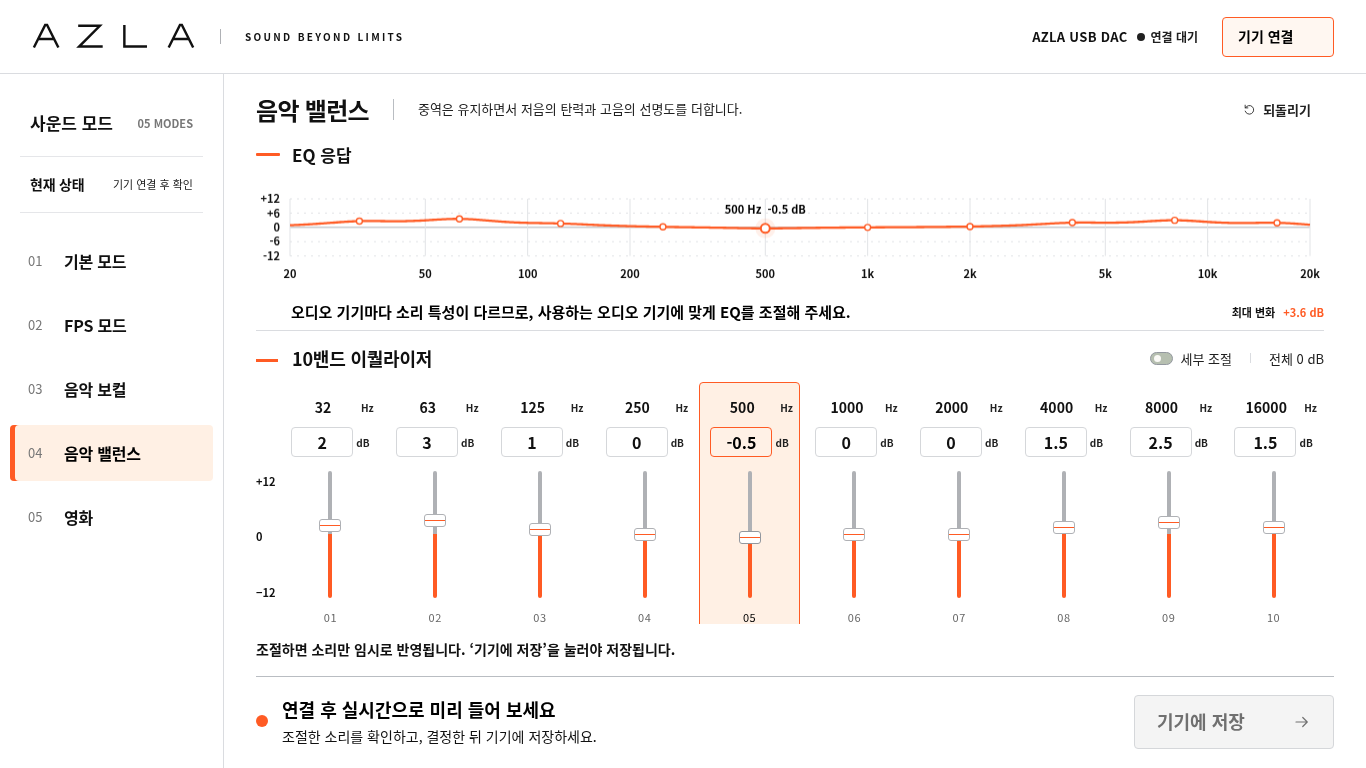
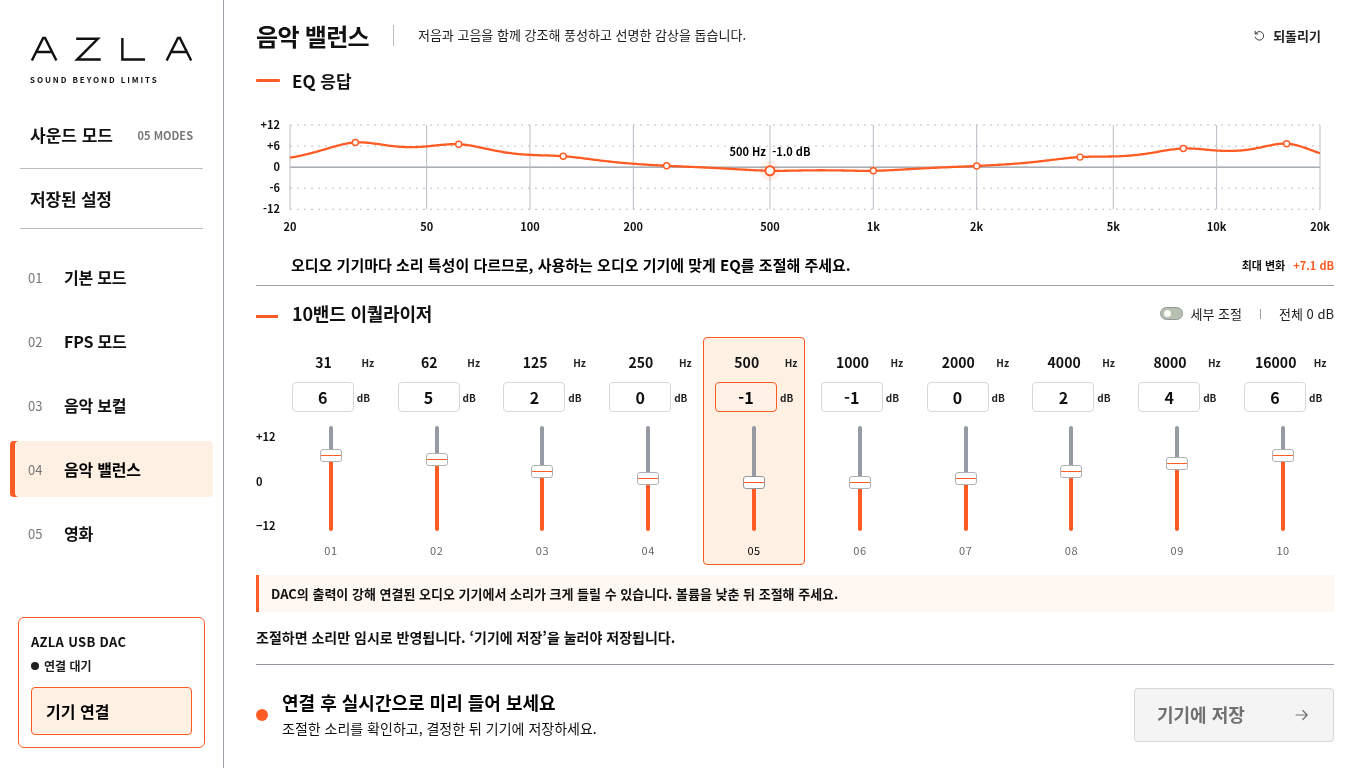
Move device connection to sidebar and reclaim EQ header space

diff --git a/style.css b/style.css
@@ -272,19 +272,18 @@ body{font-weight:500}
  --chart-grid:#B9BDC4;--chart-zero:#777E88;--chart-fill:#FFFFFF;
  --chart-line-start:#FF5B24;--chart-line-mid:#FF5B24;--chart-line-end:#FF5B24;--chart-halo:#FF5B2418;
 }
-.brand-header{height:74px;display:flex;align-items:center;justify-content:space-between;gap:24px;padding:0 32px;border-bottom:1px solid var(--line);background:#FFFFFF}
-.brand-header .brand{display:flex;align-items:center;gap:24px;padding:0;margin:0;flex-shrink:0}
+.sidebar .brand{display:block;padding:8px 20px 28px;margin:0;flex-shrink:0}
 .brand-wordmark{max-width:none;width:164px;height:auto;padding:0;background:none;border-radius:0}
 .brand-logo g{stroke:#111111}
-.brand-tagline{margin:0;padding-left:24px;border-left:1px solid #AFB1B5;font-size:10px;letter-spacing:2.3px;white-space:nowrap}
-.brand-header .device-card{position:static;display:flex;align-items:center;gap:24px;padding:0;border:0;border-radius:0;box-shadow:none;background:none}
-.device-icon{display:none}.brand-header .device-card-top{display:flex;gap:0}.device-copy{flex-direction:row;align-items:center;gap:10px}
+.brand-tagline{margin:12px 0 0;padding:0;border:0;font-size:8px;letter-spacing:1.9px;white-space:nowrap}
+.sidebar .device-card{position:static;flex:none;margin:16px 8px 0;padding:14px 12px 12px;border:1.5px solid var(--accent);border-radius:6px;box-shadow:none;background:#FFFFFF}
+.device-icon{display:none}.device-card-top{display:flex;gap:0}.device-copy{flex-direction:column;align-items:flex-start;gap:6px}
 .device-copy strong{max-width:180px;font-size:13px;font-weight:600}.device-copy>span{font-size:12px}
 .status-dot{width:8px;height:8px}.status-dot.connected{box-shadow:none}
-.connect-button{width:auto;min-width:112px;min-height:40px;margin:0;padding:8px 15px;gap:12px;border:1px solid var(--accent);border-radius:4px;background:#FFF7F1;font-size:14px;box-shadow:none}
+.connect-button{width:100%;min-width:0;min-height:48px;margin:12px 0 0;padding:10px 14px;gap:12px;border:1.5px solid var(--accent);border-radius:4px;background:#FFF0E4;font-size:16px;box-shadow:none}
 .connect-button:hover:not(:disabled){background:#FFE3D2;border-color:var(--accent)}.connect-button .icon{display:none}
-.app-shell{grid-template-columns:224px minmax(0,1fr);min-height:calc(100dvh - 74px)}
-.sidebar{top:0;height:calc(100dvh - 74px);padding:28px 10px 20px;background:#FFFFFF;border-right:1px solid var(--line)}
+.app-shell{grid-template-columns:224px minmax(0,1fr);min-height:100dvh}
+.sidebar{top:0;height:100dvh;padding:28px 10px 20px;background:#FFFFFF;border-right:1px solid var(--line)}
 .sidebar-heading{padding:8px 20px 20px;font-size:17px;font-weight:650}.library-count{font-size:11px;color:#777777;letter-spacing:0}
 .preset-list{counter-reset:mode;gap:8px;padding:0}
 .preset-item{min-height:56px;padding:12px 18px;gap:16px;border:0;border-radius:4px;background:none;box-shadow:none}
@@ -294,7 +293,7 @@ body{font-weight:500}
 .preset-item[aria-pressed=true] .preset-name{font-weight:750}
 .preset-item.device-current{margin:0 10px 10px;padding:17px 10px;border-top:1px solid var(--line-soft);border-bottom:1px solid var(--line-soft);border-radius:0;width:calc(100% - 20px)}
 .device-current .preset-copy{flex-direction:row;align-items:center;gap:0}.preset-item.device-current .preset-name{font-size:17px;font-weight:650;white-space:nowrap}
-.sidebar-spacer{min-height:12px}.sidebar-note{margin:0 20px;padding:18px 0 0;border-top:1px solid var(--line-soft);font-size:10px;letter-spacing:2px;color:#666666}
+.sidebar-spacer{min-height:12px}.sidebar-note{margin:0 20px;padding:12px 0 0;border-top:1px solid var(--line-soft);font-size:10px;letter-spacing:2px;color:#666666}
 .main-content{max-width:none;margin:0;padding:0 32px 16px}
 .equalizer-panel{border:0;border-radius:0;box-shadow:none;background:#FFFFFF}
 .profile-header{padding:26px 0 18px;align-items:center}.profile-topline{display:none}
@@ -328,22 +327,22 @@ body{font-weight:500}
 .apply-button:hover:not(:disabled){background:#EC4711;border-color:#EC4711;box-shadow:none}
 .apply-button:disabled{background:#F4F4F4;border:1px solid #D5D7DA;box-shadow:none;color:#707070;opacity:1}
 @media(min-width:901px){
- .app-shell,.main-content{height:calc(100dvh - 74px)}
+ .app-shell,.main-content{height:100dvh}
  .main-content{padding-top:0;--desktop-slider-height:clamp(105px,calc(22dvh - 65px),170px)}
- .equalizer-panel{scrollbar-gutter:stable}.profile-header{padding:24px 0 18px}
- .chart-section{padding:0 0 18px;min-height:240px}.chart-wrap{min-height:95px}
+ .equalizer-panel{scrollbar-gutter:auto}.profile-header{padding:24px 0 18px}
+ .chart-section{padding:0 0 18px;min-height:190px}.chart-wrap{min-height:95px}
  .controls-section{padding:18px 0 0}.controls-heading{margin-bottom:16px}
 }
 @media(min-width:1250px){.apply-copy>div{display:flex;align-items:center;gap:20px}.apply-copy strong{white-space:nowrap}.apply-copy p{margin:0;padding-left:20px;border-left:1px solid #B9BDC2}}
 @media(max-height:820px) and (min-width:901px){
  .profile-header{padding:18px 0 12px}.profile-intro h2{font-size:24px}.profile-intro p{font-size:13px}
- .chart-section{min-height:210px}.chart-toolbar{margin-bottom:8px}.controls-section{padding-top:14px}.controls-heading{margin-bottom:10px}
+ .chart-section{min-height:170px}.chart-toolbar{margin-bottom:8px}.controls-section{padding-top:14px}.controls-heading{margin-bottom:10px}
  .band-gain{margin-bottom:14px}.apply-bar{padding-top:14px;margin-top:10px}.apply-copy>div{display:block}.apply-copy p{border:0;padding:0;margin-top:3px}
 }
 @media(max-width:1100px){.brand-tagline{display:none}.main-content{padding-left:22px;padding-right:22px}.profile-intro{display:block}.profile-intro p{border:0;padding:0;margin-top:5px}.controls-actions>.text-button,.switch-label{font-size:11px}}
 @media(max-width:900px){
- .brand-header{height:70px;padding:0 20px;gap:12px}.brand-wordmark{width:126px}.brand-header .device-card{gap:12px}.device-copy strong{font-size:11px;max-width:115px}.device-copy>span{font-size:10px}.connect-button{min-width:98px;min-height:42px;font-size:13px;padding:8px 12px}
- .app-shell{display:block;height:auto;min-height:calc(100dvh - 70px)}.sidebar{position:static;height:auto;padding:16px 20px 0;border-right:0;border-bottom:1px solid var(--line)}
+ .brand-wordmark{width:126px}.device-copy strong{font-size:11px;max-width:115px}.device-copy>span{font-size:10px}.connect-button{min-width:98px;min-height:42px;font-size:13px;padding:8px 12px}
+ .app-shell{display:block;height:auto;min-height:100dvh}.sidebar{position:static;height:auto;padding:16px 20px 0;border-right:0;border-bottom:1px solid var(--line)}
  .sidebar-heading{padding:0 0 12px;font-size:14px}.preset-list{display:flex;flex-direction:row;overflow-x:auto;padding:0 0 12px;gap:8px}.preset-item{width:auto;min-width:104px;min-height:48px;padding:10px 12px;gap:8px;flex-shrink:0;white-space:nowrap}.preset-name{font-size:13px}.preset-item[data-preset]::before{font-size:10px;width:auto}
  .preset-item.device-current{width:130px;margin:0;padding:10px 12px;border:1px solid var(--line-soft);border-radius:4px}.device-current .preset-copy{display:block}.preset-item.device-current .preset-name{font-size:14px}.sidebar-spacer,.sidebar-note{display:none}
  .main-content{height:auto;padding:0 20px 20px}.equalizer-panel{overflow:visible}.profile-header{padding:22px 0 16px}.profile-intro h2{font-size:23px}.profile-intro p{font-size:13px;max-width:none}.profile-actions .quiet-button{font-size:12px}
@@ -352,14 +351,14 @@ body{font-weight:500}
  .controls-footnote{position:static;padding:14px 0}.apply-bar{gap:14px;padding-top:16px}.apply-copy strong{font-size:17px}.apply-copy p{font-size:14px;max-width:none}.apply-button{min-width:150px;font-size:16px}
 }
 @media(max-width:520px){
- .brand-header{height:68px;padding:0 15px}.brand-wordmark{width:108px}.brand-header .device-card{gap:10px}.device-copy{display:block}.device-copy strong{display:none}.device-copy>span{font-size:10px;white-space:nowrap}.connect-button{min-width:88px;min-height:40px;font-size:12px;padding:8px 10px}
+ .brand-wordmark{width:108px}.device-copy{display:block}.device-copy strong{display:none}.device-copy>span{font-size:10px;white-space:nowrap}.connect-button{min-width:88px;min-height:40px;font-size:12px;padding:8px 10px}
  .sidebar{padding:14px 15px 0}.main-content{padding:0 15px 20px}.profile-intro h2{font-size:22px}.profile-intro p{max-width:235px;font-size:12px}.chart-wrap{height:215px}.chart-legend{font-size:15px}.chart-bottom #modelLabel{font-size:14px}.controls-title h3{font-size:15px}.controls-title h3::before{width:14px;margin-right:8px}.controls-actions{gap:10px}.switch-label,.controls-actions>.text-button{font-size:10px}
  .controls-footnote>span:first-child{font-size:13px}.apply-bar{flex-wrap:wrap;gap:12px}.apply-copy{width:100%;gap:10px}.apply-copy strong{font-size:18px}.apply-copy p{font-size:14px}.apply-actions{width:100%;flex-direction:row;justify-content:flex-end}.apply-button{min-width:160px;height:50px;font-size:16px}
 }
 
 /* Keep desktop actions in a stable reserved area while adjusting EQ. */
 @media(min-width:901px){
- .apply-bar{display:grid;grid-template-columns:minmax(0,1fr) auto;align-items:center;height:100px;min-height:100px;padding:12px 0 0;gap:18px;flex-wrap:nowrap}
+ .apply-bar{display:grid;grid-template-columns:minmax(0,1fr) auto;align-items:center;height:88px;min-height:88px;padding:12px 0 0;gap:18px;flex-wrap:nowrap}
  .apply-copy{flex-basis:auto;min-width:0}
  .apply-copy>div{display:block}.apply-copy strong{white-space:normal;line-height:1.4}
  .apply-copy p{margin:3px 0 0;padding:0;border:0;line-height:1.55}
@@ -367,8 +366,24 @@ body{font-weight:500}
  #applyProgress{position:absolute;right:0;top:3px;width:200px}
 }
 @media(min-width:901px) and (max-width:1249px){
- .apply-bar{height:160px;min-height:160px;grid-template-columns:minmax(0,1fr);grid-template-rows:74px 54px;padding-top:18px;gap:12px;align-content:start}
- .apply-actions{justify-self:end}
+ .apply-bar{height:88px;min-height:88px;gap:14px}
+ .apply-copy strong{font-size:16px}.apply-copy p{font-size:13px}
+ .apply-button{min-width:160px;font-size:16px}
 }
 
 .volume-guidance{margin:10px 0 0;padding:8px 12px;border-left:3px solid var(--accent);background:#FFF7F1;color:#111111;font-size:13px;font-weight:550;line-height:1.65}
+
+/* On compact screens the same connection card stays beside the logo. */
+@media(max-width:900px){
+ .app-shell{min-height:100dvh}
+ .sidebar{display:grid;grid-template-columns:minmax(0,1fr) auto;gap:0 18px;align-items:center}
+ .sidebar .brand{grid-column:1;grid-row:1;padding:8px 0 20px}
+ .sidebar .device-card{grid-column:2;grid-row:1;display:flex;flex-direction:column;gap:5px;margin:0 0 16px;padding:0;border:0;align-items:stretch}
+ .device-card-top{justify-content:flex-end}.device-copy{display:flex;align-items:flex-end}.device-copy strong{display:none}
+ .device-copy>span{font-size:11px;white-space:nowrap}
+ .sidebar .connect-button{width:150px;min-height:42px;margin:0;font-size:14px}
+ .sidebar-heading{grid-column:1 / -1;grid-row:2}
+ .preset-list{grid-column:1 / -1;grid-row:3;min-width:0}
+}
+
+.bottom-caption{display:none}

diff --git a/index.html b/index.html
@@ -23,17 +23,18 @@
     <symbol id="icon-shield" viewBox="0 0 24 24"><path d="M12 3 4 6v6c0 5 8 9 8 9s8-4 8-9V6z"/><path d="m8 12 3 3 5-6"/></symbol>
   </defs></svg>
 
-  <header class="brand-header"><a class="brand" href="./" aria-label="AZLA Equalizer 홈"><span class="brand-wordmark"><svg class="brand-logo" viewBox="0 0 174 28" role="img" aria-label="AZLA"><g fill="none" stroke="#fff" stroke-width="2.6" stroke-linejoin="miter"><path d="M2 26 14 2h2l12 24M7 17h16M49 3h23L50 25h25M98 2v23h24M145 26l12-24h2l12 24M150 17h16"/></g></svg></span><span class="brand-tagline">SOUND BEYOND LIMITS</span></a><section class="device-card" aria-label="장치 연결">
-        <div class="device-card-top"><span class="device-icon"><svg class="icon"><use href="#icon-usb"/></svg></span><span class="device-copy"><strong id="deviceName">AZLA USB DAC</strong><span id="connectionLabel"><i class="status-dot"></i>연결 대기</span></span></div>
-        <button id="connectBtn" class="connect-button" type="button"><span>기기 연결</span><svg class="icon"><use href="#icon-plus"/></svg></button>
-      </section></header>
   <div class="app-shell">
     <aside class="sidebar" aria-label="사운드 라이브러리">
+      <a class="brand" href="./" aria-label="AZLA Equalizer 홈"><span class="brand-wordmark"><svg class="brand-logo" viewBox="0 0 174 28" role="img" aria-label="AZLA"><g fill="none" stroke="#fff" stroke-width="2.6" stroke-linejoin="miter"><path d="M2 26 14 2h2l12 24M7 17h16M49 3h23L50 25h25M98 2v23h24M145 26l12-24h2l12 24M150 17h16"/></g></svg></span><span class="brand-tagline">SOUND BEYOND LIMITS</span></a>
 
       <div class="sidebar-heading"><span>사운드 모드</span><span class="library-count">05 MODES</span></div>
       <nav id="presetList" class="preset-list" aria-label="사운드 라이브러리"></nav>
       <div class="sidebar-spacer"></div>
       <div class="sidebar-note">AZLA AUDIO</div>
+      <section class="device-card" aria-label="장치 연결">
+        <div class="device-card-top"><span class="device-icon"><svg class="icon"><use href="#icon-usb"/></svg></span><span class="device-copy"><strong id="deviceName">AZLA USB DAC</strong><span id="connectionLabel"><i class="status-dot"></i>연결 대기</span></span></div>
+        <button id="connectBtn" class="connect-button" type="button"><span>기기 연결</span><svg class="icon"><use href="#icon-plus"/></svg></button>
+      </section>
 
     </aside>
 

diff --git a/tests/browser_apply_layout.py b/tests/browser_apply_layout.py
@@ -10,8 +10,9 @@ with sync_playwright() as p:
         page.on('pageerror',lambda error:errors.append(str(error)))
         page.goto('http://127.0.0.1:8768')
         page.wait_for_selector('.band-column')
-        for selector in ['.brand-header .brand','#connectBtn']:
+        for selector in ['.sidebar .brand','#connectBtn']:
             assert page.locator(selector).evaluate('el=>{const r=el.getBoundingClientRect();return r.top>=0&&r.bottom<=innerHeight&&r.left>=0&&r.right<=innerWidth&&el.contains(document.elementFromPoint(r.x+r.width/2,r.y+r.height/2))}'), selector
+        assert page.locator('#connectBtn').evaluate('el=>el.getBoundingClientRect().left<224&&el.getBoundingClientRect().top>innerHeight/2'), 'connection belongs at bottom left'
         for advanced in [False,True]:
             if advanced:page.locator('#advancedToggle').check()
             for scroll in [False,True]:
@@ -22,6 +23,7 @@ with sync_playwright() as p:
                   const b=document.querySelector('#applyBtn'),panel=document.querySelector('.equalizer-panel');
                   const r=b.getBoundingClientRect(),pr=panel.getBoundingClientRect();
                   return {top:r.top,bottom:r.bottom,left:r.left,right:r.right,panelBottom:pr.bottom,
+                    panelOverflow:panel.scrollHeight-panel.clientHeight,
                     height:innerHeight,width:innerWidth,scrollHeight:document.documentElement.scrollHeight,
                     scrollWidth:document.documentElement.scrollWidth,
                     clickable:b.contains(document.elementFromPoint((r.left+r.right)/2,(r.top+r.bottom)/2))};
@@ -29,6 +31,8 @@ with sync_playwright() as p:
                 assert 0<=result['top']<result['bottom']<=height,(width,height,advanced,scroll,result)
                 assert result['panelBottom']<=result['top'],('panel overlaps apply button',result)
                 assert result['clickable'],('apply button obscured',result)
+                if height>=768:
+                    assert result['panelOverflow']<=1,('unnecessary EQ panel scroll',width,height,advanced,result)
                 assert result['scrollWidth']<=width and result['scrollHeight']<=height,(width,height,result)
         if width in [1920,1366]:
             page.locator('#advancedToggle').uncheck()

diff --git a/README.md b/README.md
@@ -4,7 +4,7 @@ AZLA USB DAC를 위한 10밴드 EQ 프로그램입니다. **제조사 원본 SDK
 
 ![AZLA Equalizer 미리듣기 화면](docs/screenshots/AZLA-Vivid-Orange-1920.png)
 
-승인된 화이트·선명한 오렌지 시안을 적용했습니다. 로고와 기기 연결은 상단에, 모드는 왼쪽 목록에 배치했습니다. `#FF5B24`를 저장 버튼·응답 곡선·슬라이더·선택 표시에 사용하고 `#FFF0E4`를 선택 배경에 사용합니다. 저장 안내와 버튼은 PC에서 스크롤 없이 보이며, 모바일은 모드·밴드를 가로로 넘겨 사용할 수 있습니다. 프리셋·SDK·RAM 미리듣기와 Flash 저장 동작은 유지합니다.
+승인된 화이트·선명한 오렌지 시안을 적용했습니다. 로고와 모드는 왼쪽에, 기기 연결은 왼쪽 아래에 고정했습니다. 별도 상단 바를 없애 EQ 화면 높이를 확보했습니다. `#FF5B24`를 저장 버튼·응답 곡선·슬라이더·선택 표시에 사용하고 `#FFF0E4`를 선택 배경에 사용합니다. 저장 안내와 버튼은 PC에서 스크롤 없이 보이며, 모바일은 모드·밴드를 가로로 넘겨 사용할 수 있습니다. 프리셋·SDK·RAM 미리듣기와 Flash 저장 동작은 유지합니다.
 
 ## 바로 실행하기
 
